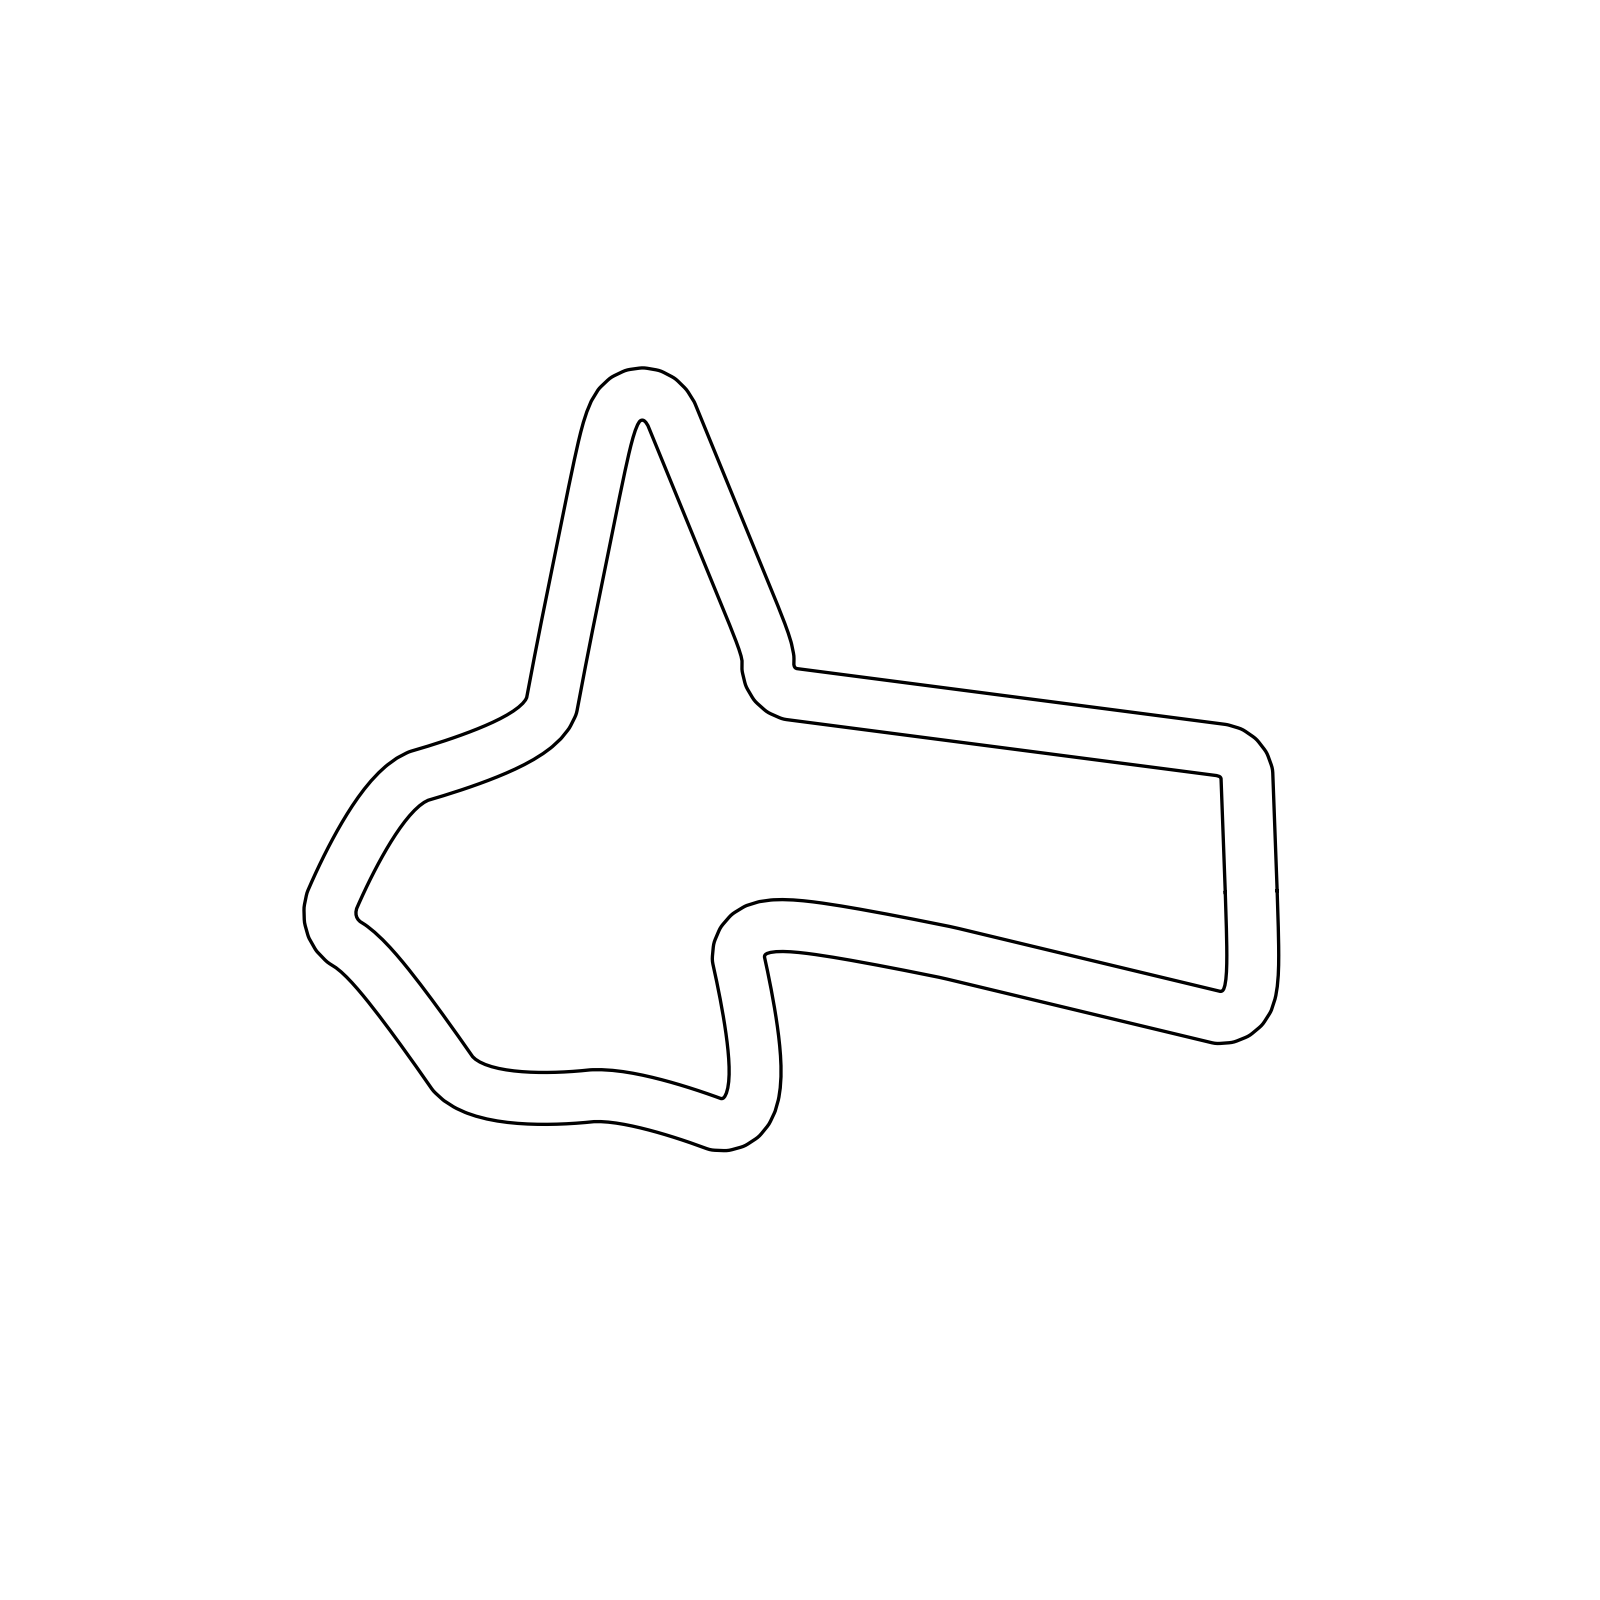
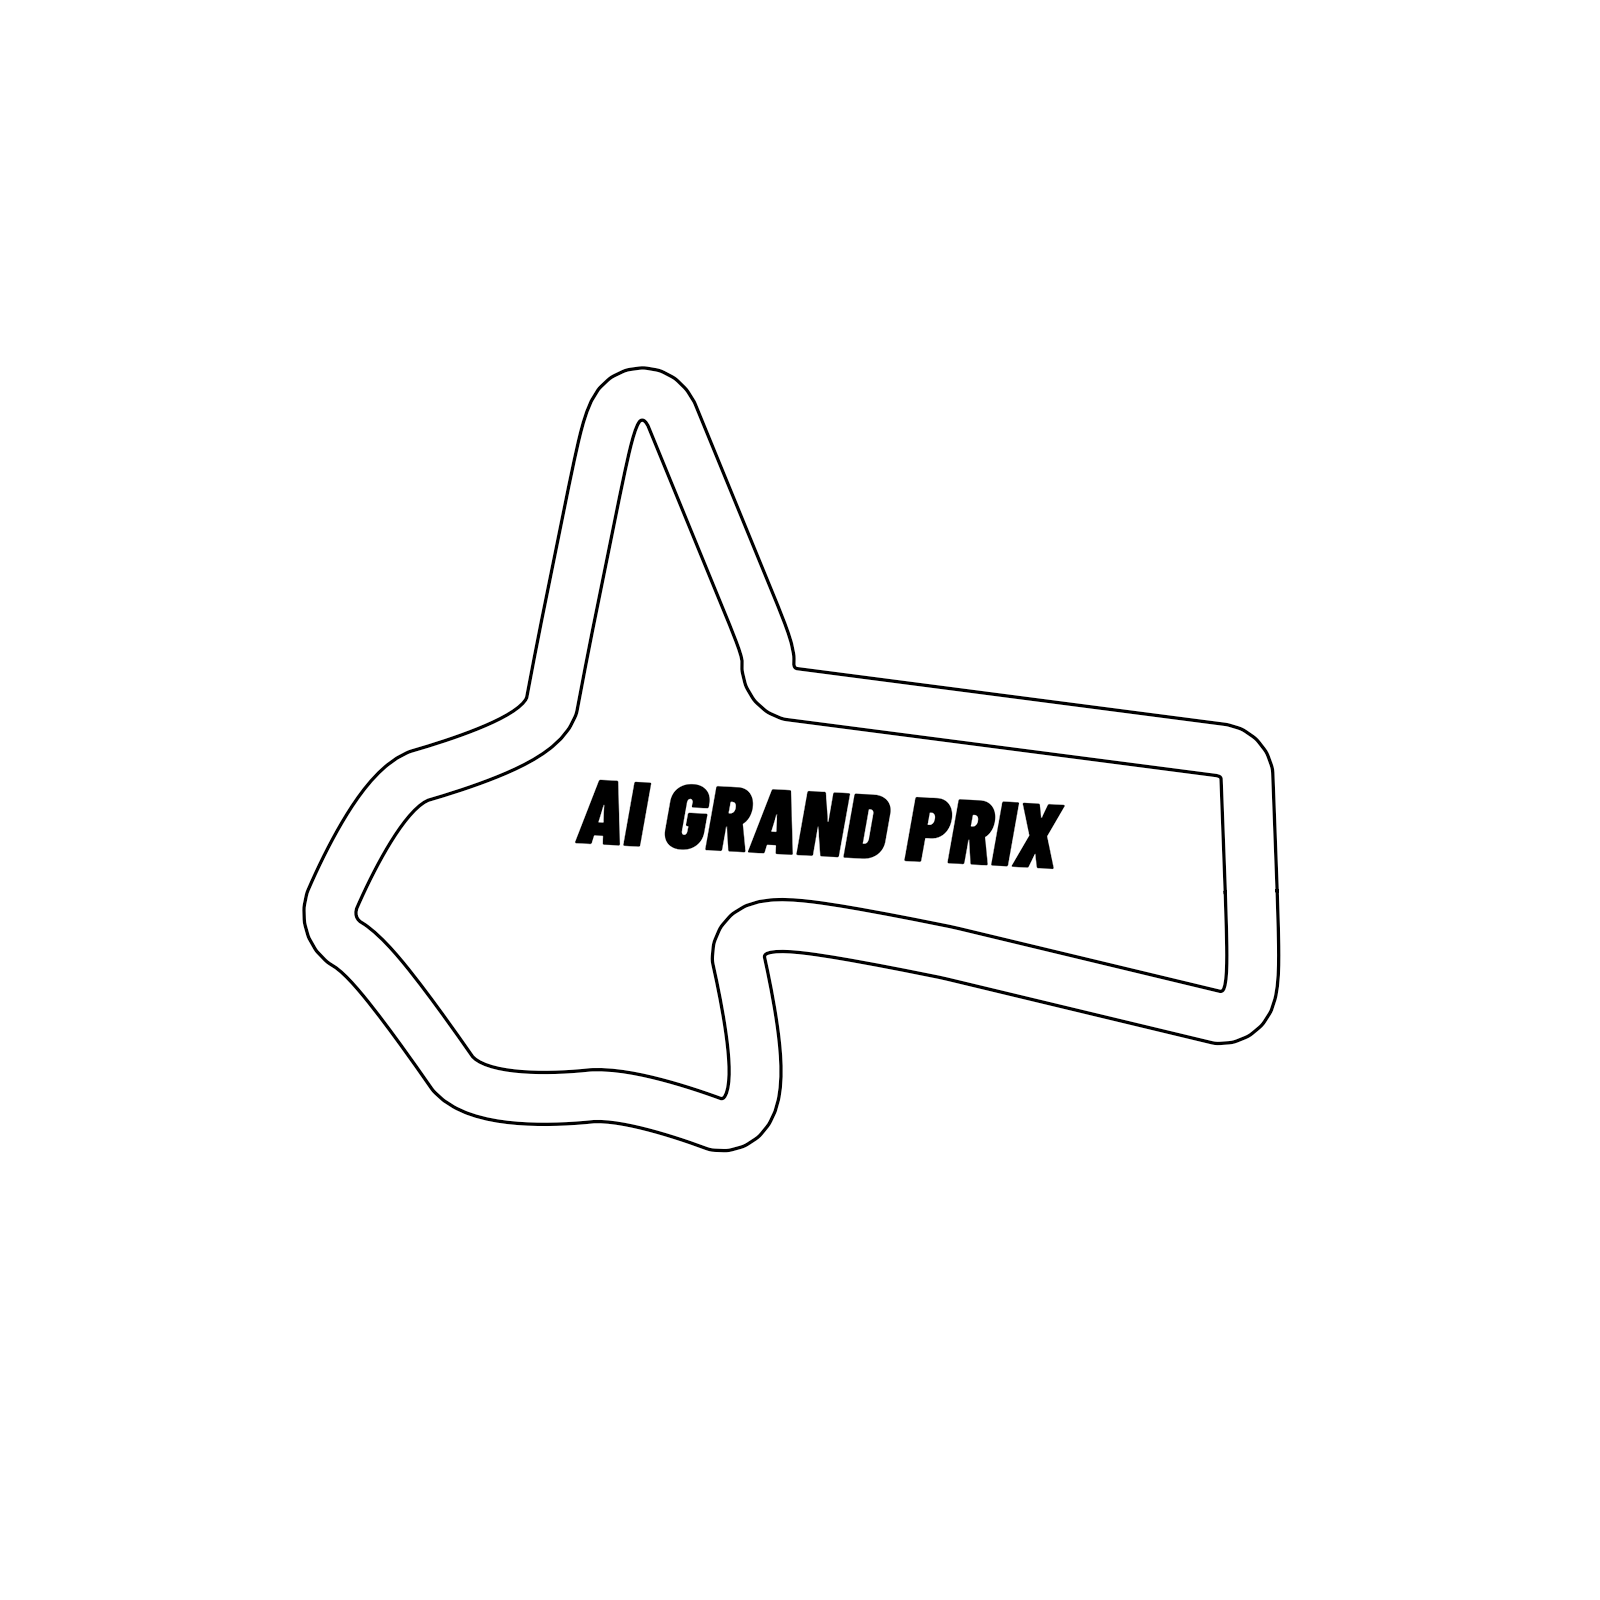
added graphics

Changed region(s): [[0.3438, 0.4688, 0.6562, 0.5625]]

diff --git a/src/maps/convert_to_bw.py b/src/maps/convert_to_bw.py
@@ -1,8 +1,7 @@
 import cv2
 
-PATH = 'OBSTACLES.png'
-
 if __name__ == '__main__':
+    PATH = input('Enter name of RGB file: ')
     img = cv2.imread(PATH, -1)
     img_bw = cv2.cvtColor(img, cv2.COLOR_BGR2GRAY)
     cv2.imwrite(PATH, img_bw)
